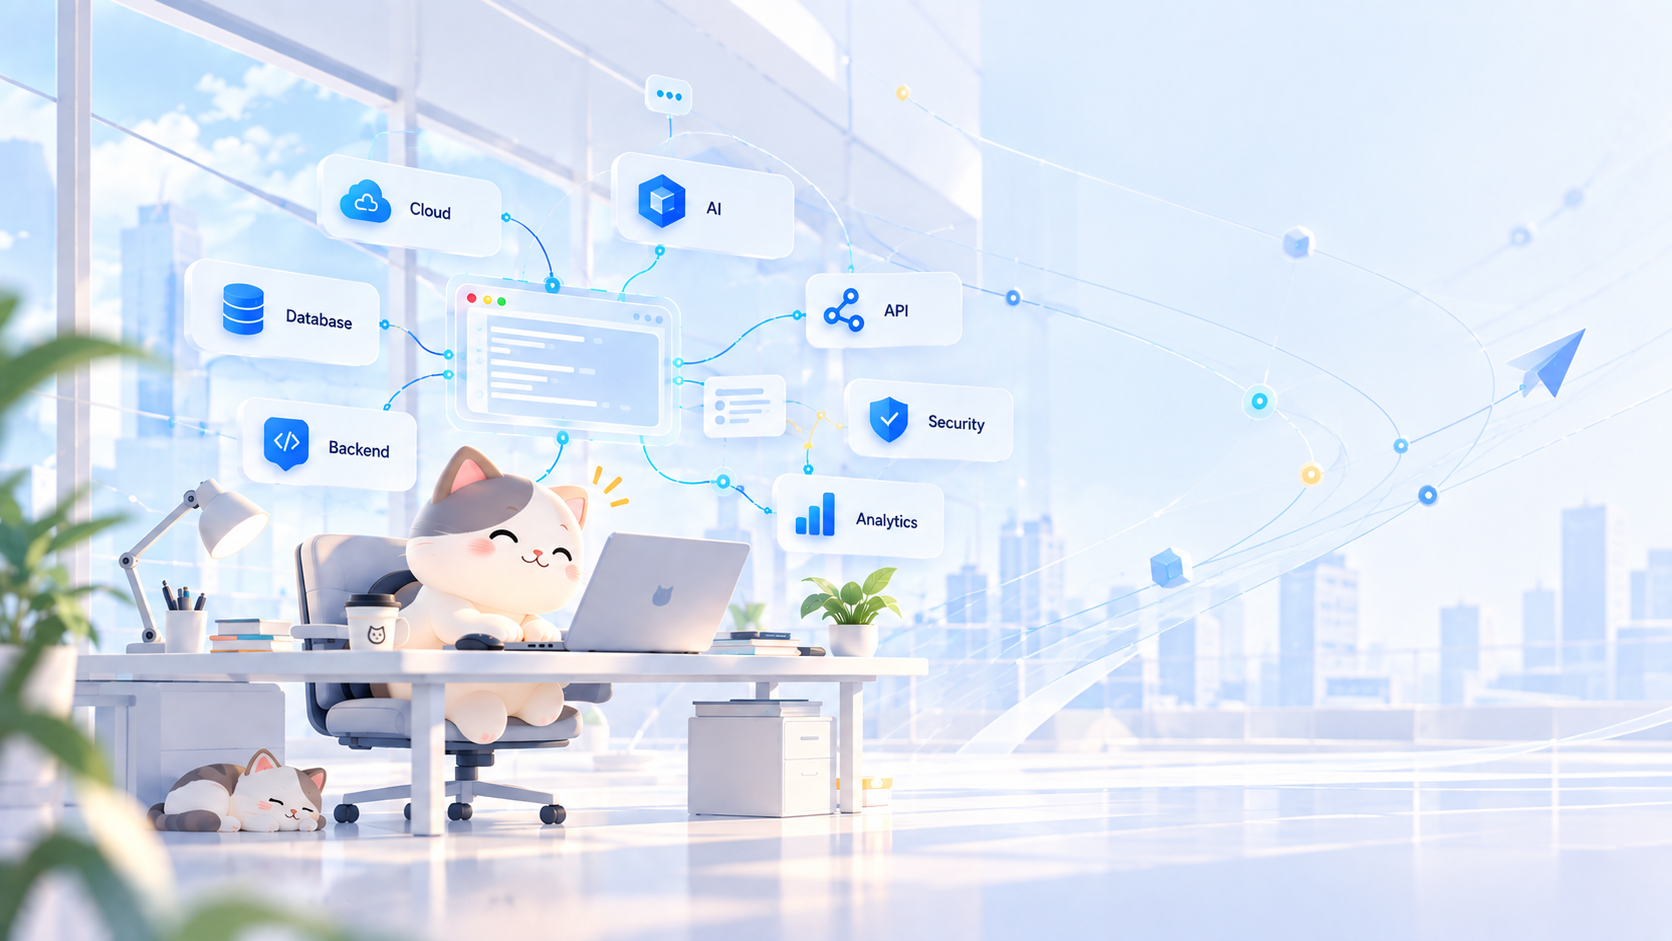
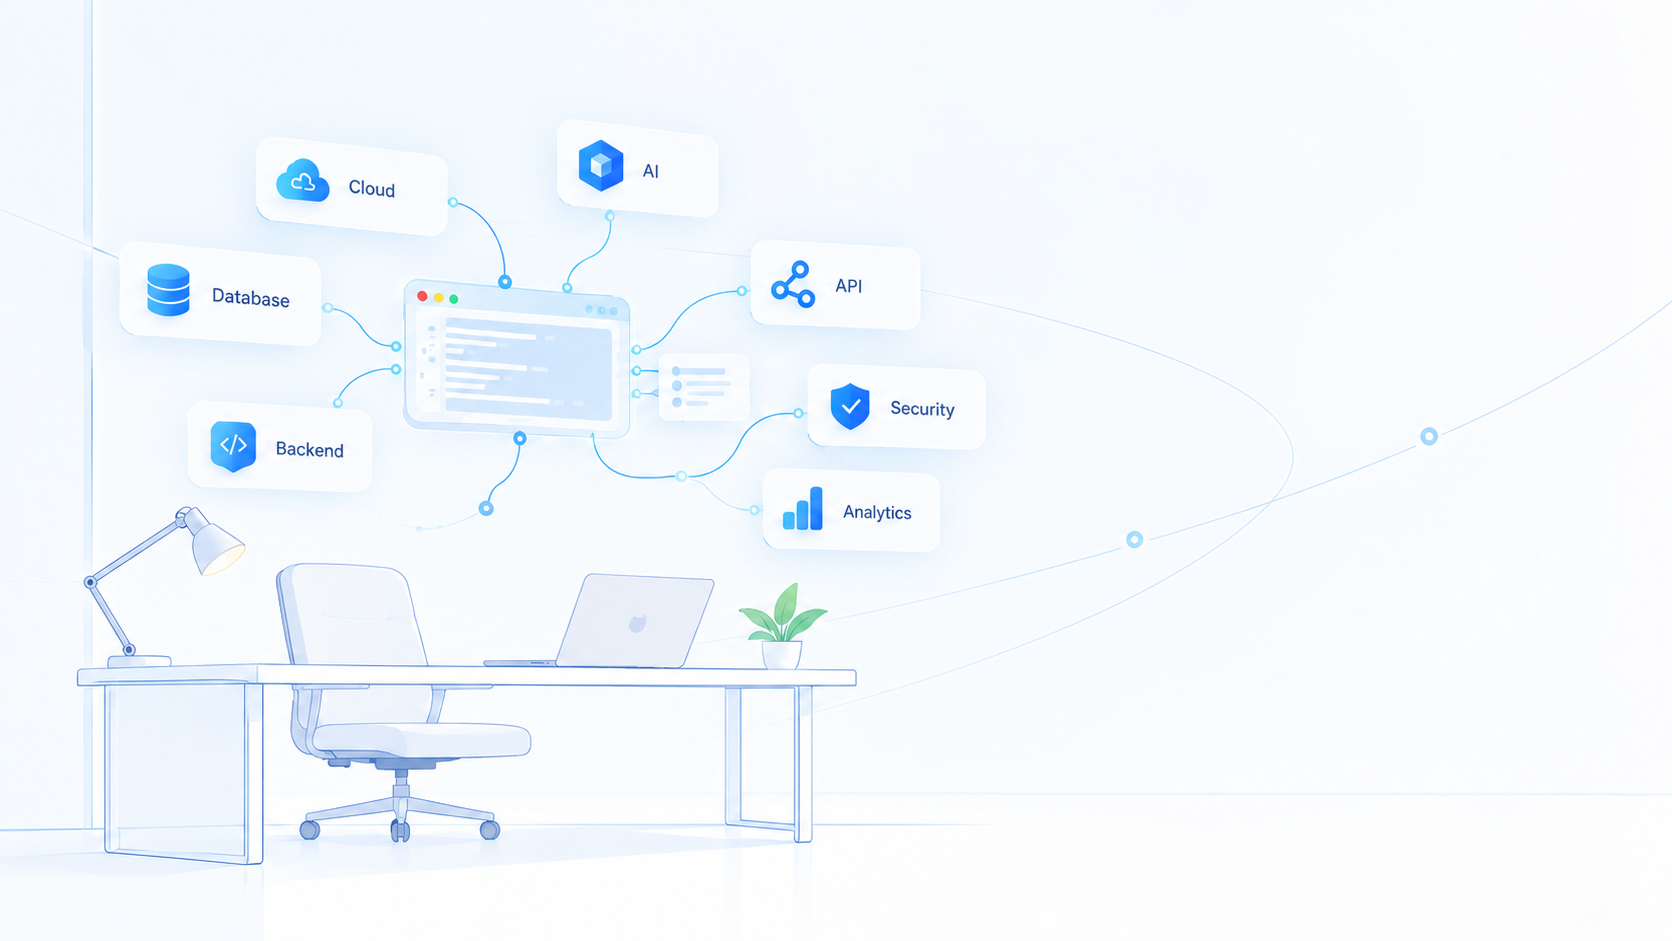
feat(登录页): 新增动态 SaaS 背景层
将登录页静态背景图替换为固定的 AnimatedSaaSBackground 组件层，
页面内容以相对定位叠加其上。同步引入 framer-motion 依赖，
并在 vitest setup 中兜底 window.matchMedia 以满足 antd 与
framer-motion 的 prefers-reduced-motion 读取需求。

diff --git a/bls-admin/src/pages/user/login/index.tsx b/bls-admin/src/pages/user/login/index.tsx
@@ -22,6 +22,7 @@ import React, { startTransition, useCallback, useRef, useState } from 'react';
 import { Footer } from '@/components';
 import AltchaCaptcha from '@/components/AltchaCaptcha';
 import TianaiCaptcha from '@/components/TianaiCaptcha';
+import AnimatedSaaSBackground from './AnimatedSaaSBackground';
 import { useLoginCaptcha } from '@/hooks/useLoginCaptcha';
 import { login } from '@/services/ant-design-pro/api';
 import { CAPTCHA_ERROR_CODES } from '@/services/auth/captcha';
@@ -56,11 +57,9 @@ const useStyles = createStyles(({ token, isDarkMode }) => {
       flexDirection: 'column',
       minHeight: '100vh',
       overflow: 'auto',
-      // 全屏背景图：public/login-bg.png → 构建后位于站点根路径，用绝对路径引用
-      backgroundImage: 'url(/login-bg.png)',
-      backgroundSize: 'cover',
-      backgroundPosition: 'center',
-      backgroundRepeat: 'no-repeat',
+      // 背景交给固定的 <AnimatedSaaSBackground /> 层；页面内容整体抬到它上面
+      position: 'relative',
+      zIndex: 1,
     },
     /** 登录区：把登录框推到右侧居中；窄屏回落到居中、内边距收紧 */
     loginArea: {
@@ -268,6 +267,8 @@ const Login: React.FC = () => {
         </title>
       </Helmet>
       <Lang />
+      {/* 背景：固定定位的底层静态插画 */}
+      <AnimatedSaaSBackground />
       <div className={styles.loginArea}>
         <div className={styles.panel}>
         <LoginForm

diff --git a/bls-admin/vitest.setup.ts b/bls-admin/vitest.setup.ts
@@ -4,11 +4,33 @@
  * - 注册 @testing-library/jest-dom 断言（toBeInTheDocument / toBeDisabled …）
  * - 每个测试后自动清理 DOM（@testing-library/react 会在 globals 可用时自动 cleanup，
  *   这里再显式兜底一次，避免多个测试文件混跑时残留）
+ * - 兜底 `window.matchMedia`：jsdom **不实现**它，而 antd 与 framer-motion 都会读取
+ *   （登录页动态背景 `AnimatedSaaSBackground` 的 `useReducedMotion` 就依赖它）。
+ *   这里让 `prefers-reduced-motion` 恒为 `reduce` ⇒ 测试里不跑无限动画，
+ *   既快又不会让 jsdom 一直忙在 requestAnimationFrame 上。
  */
 import '@testing-library/jest-dom/vitest';
 import { cleanup } from '@testing-library/react';
-import { afterEach } from 'vitest';
+import { afterEach, vi } from 'vitest';
 
 afterEach(() => {
   cleanup();
 });
+
+if (!window.matchMedia) {
+  Object.defineProperty(window, 'matchMedia', {
+    writable: true,
+    configurable: true,
+    value: vi.fn().mockImplementation((query: string) => ({
+      // 只让「减少动效」为真，其它（断点等）保持 false，避免影响 antd 的响应式判断
+      matches: /prefers-reduced-motion/.test(query),
+      media: query,
+      onchange: null,
+      addListener: vi.fn(),
+      removeListener: vi.fn(),
+      addEventListener: vi.fn(),
+      removeEventListener: vi.fn(),
+      dispatchEvent: vi.fn(),
+    })),
+  });
+}

diff --git a/bls-admin/src/pages/user/login/AnimatedSaaSBackground.tsx b/bls-admin/src/pages/user/login/AnimatedSaaSBackground.tsx
@@ -1,0 +1,21 @@
+/**
+ * 登录页背景：**一张静态插画**（`public/login-bg.png`，真实尺寸 1672×941，勿改）。
+ *
+ * 演进记录（2026-09-28 收敛到此版本）：
+ *   1. 最早是「动态 SaaS 背景」：鼠标视差 / SVG 数据流 / 发光节点 / 光点流动 / 呼吸光 / 扫描光；
+ *   2. 之后做过 v2（图片放进 SVG 共用坐标系）与 v3（左侧「产品能力地图」：
+ *      React 节点卡片 + hover 裂开 + 展开面板 + 连线高亮，文件 TechNode.tsx / TechNode.css / techNodes.tsx）；
+ *   3. **v3 及全部额外动画/卡片已按要求整体删除**，只保留插画本体（猫 / 桌椅 / 办公室 / 线路）。
+ *
+ * 说明：组件名沿用 `AnimatedSaaSBackground` 是为了不动调用方，它现在**不含任何动画**；
+ *       如需改名（如 `LoginBackground`）与文件名一起改即可。
+ */
+import './AnimatedSaaSBackground.css';
+
+export default function AnimatedSaaSBackground() {
+  return (
+    <div className="bls-login-background">
+      <img className="bls-login-background__image" src="/login-bg.png" alt="" draggable={false} />
+    </div>
+  );
+}

diff --git a/bls-admin/src/pages/user/login/AnimatedSaaSBackground.css b/bls-admin/src/pages/user/login/AnimatedSaaSBackground.css
@@ -1,0 +1,29 @@
+/**
+ * 登录页背景（静态插画层）。
+ *
+ * 固定铺满视口、置于页面内容之下（页面内容 `z-index: 1`，见 pages/user/login/index.tsx）。
+ * 图片用 `object-fit: cover`：等比铺满并居中裁切，窗口比例变化不拉伸、不变形。
+ */
+
+.bls-login-background {
+  position: fixed;
+  inset: 0;
+  z-index: 0;
+
+  overflow: hidden;
+
+  background: #f7fbff;
+}
+
+.bls-login-background__image {
+  width: 100%;
+  height: 100%;
+
+  display: block;
+
+  object-fit: cover;
+  object-position: center;
+
+  user-select: none;
+  pointer-events: none;
+}

diff --git a/.codebuddy/memory/2026-09-24.md b/.codebuddy/memory/2026-09-24.md
@@ -451,6 +451,103 @@ b) `/etc/buildkit/buildkitd.toml` 配 `[registry."docker.io"] mirrors=[...]` +
   修法：`ls -la` 确认是目录后 `rmdir`（或 `rm -rf`）掉，再把真正的文件传/写进去，
   最后 `ls -l` 确认是普通文件（有字节数）再 `up`。
 
+**登录页 v3：左侧「产品能力地图」——React DOM 节点卡片 + 裂开/展开交互**（2026-09-25 18:30）
+用户要求把左侧做成**可探索的产品介绍区**（hover 节点 → 卡片裂开 → 展开 BLS-KOX 能力介绍），
+并明确「不要继续拿 PNG 里画死的卡片做动画」。
+- 新增文件（都在 `bls-admin/src/pages/user/login/`）：
+  `TechNode.tsx` + `TechNode.css`（hover 裂开/展开面板/3D 微倾，**点击锁定 + 点空白关闭**）、
+  `techNodes.tsx`（7 个节点数据）。
+- **`lucide-react` 本项目没装** ⇒ 图标改用 `@ant-design/icons`
+  （CloudOutlined / DatabaseOutlined / DeploymentUnitOutlined / RobotOutlined / ApiOutlined /
+  SafetyCertificateOutlined / LineChartOutlined），**不为它新增依赖**。
+- `AnimatedSaaSBackground.tsx/.css` 重写为 **v3 架构（最终形态）**：
+  `.bls-login-background__stage` 用
+  `width: max(100%, 100vh*1672/941); height: max(100%, 100vw*941/1672)` **复刻 cover 映射**
+  ⇒ 舞台宽高比恒等于图片 ⇒ **舞台内百分比坐标 == 图片像素坐标**，图片 / SVG 连线 / React 节点
+  三者永远同一坐标系（这是前两版所有错位问题的统一解法）。
+  连线用 `flow-line`（平时 opacity .28）+ `flow-line--active`（激活时变亮）✓，光点仍沿线流动。
+- `TechNode` 的展开态由父组件控制（`active` / `pinned` / `onHoverChange` / `onTogglePin`），
+  这样才能实现「点击空白关闭」；登录页 `container` / `loginArea` 设 `pointer-events: none`、
+  `panel` / `lang` / `Footer` 设 `auto` —— 空白点击穿透到背景层。
+- ⚠ **"把背景里烘焙的卡片去掉"没能干净做到**：试过用大半径模糊按 7 个矩形擦除 ⇒ 卡片连成一片雾、
+  **把插画里的连线也抹掉了**（用户明确要保留线路）⇒ 已放弃并删除该产物。
+  改为实测插画卡片尺寸 **280×84、中心恰好在图标上** → React 卡片用同尺寸**完整盖住**原卡片
+  （用 Pillow 预览逐张核对 ✓），并把卡片底提到 ~0.97 不透明，避免原图标/文字透出（"两张卡"感）。
+  ⇒ 真正干净的路线是**让插画重出一张不含卡片、只保留猫/桌椅/线路的底图**（用户也认同），
+  拿到后只需换 `src` + 微调坐标。
+- 校验：4 个文件 `read_lints` 0 报错；Pillow 预览 `preview-align.png` 核对覆盖与连线；
+  ⚠ vitest 本机仍被吞输出/有僵尸 node 进程，未跑测试（登录页测试用 testid，不依赖该层 DOM）。
+
+**动态背景 v2：图片放进 SVG、共用坐标系、不再重画线（按用户方案重写）**（2026-09-25 17:00）
+用户给出彻底改版方案并采纳：**图片作为 `<image>` 放进 SVG 内部**（图片与动画共用同一坐标系）⇒
+从根本上消灭「CSS `background-size: cover` vs SVG `viewBox`+`slice`」两套缩放算法导致的错位；
+同时**删除鼠标视差 / 漂浮 / 扫描光 / 大面积呼吸光**，不再重画蓝色连接线，只让小光点沿原图已有的线跑
+（`animateMotion` + `<mpath>`，轨道 path `stroke="transparent"`）+ 原节点轻微呼吸。
+- 落地：`AnimatedSaaSBackground.tsx/.css` 整体替换（`flowPaths` 8 条、`pulseNodes` 11 个）。
+- **关键适配（必须记住）**：背景图真实尺寸是 **1672×941**，不是稿子里的 1648×960 ⇒
+  `viewBox` 与 `<image>` 宽高都按真实尺寸写（否则 `preserveAspectRatio="none"` 会把图纵向拉伸 ~3.4%
+  且轨迹对不上）。代码里抽成 `IMAGE_W/IMAGE_H` 常量并备注"换图必须重新量坐标"。
+- 组件仍以 `position: fixed` 作为底层；页面内容用兄弟节点叠加（登录页 `container` 已 `z-index: 1`）。
+- ⚠ v1 的 `.login-safe-area`（右侧给玻璃登录框的渐隐）随旧 CSS 一起被删除 ⇒ 玻璃面板现在直接压在
+  插画上；若读不清需要重新加一条右侧渐隐（已向用户说明）。
+- 用 Pillow 预览核对（`tmp-preview.py` 支持解析多段 `C` 命令 → `preview-align.png`）：用户给的 8 条
+  轨迹**大致落在插画的蓝线上**，但每段只有 ~50-80px（例：cloud 段 498→546）⇒ 光点只会在图标附近闪一下，
+  不像其草图那样从图标流到屏幕；两条路线（延长到整条线 / 保持局部闪烁）已交给用户选。
+
+**再修：HTML 与 SVG 的 transform-origin 不同导致"线还是没对齐"**（2026-09-25 16:30）
+用户回"还是不对吧"。复盘发现我上一轮加的 `scale: 1.02` 是**新的错位源**：
+- HTML 元素（`.bls-background__image`）的 `transform-origin` 默认 **50% 50%**；
+- **SVG 元素（`<motion.svg>`）的 `transform-origin` 默认是 `0 0`（左上角）**；
+⇒ 两层用**同一个** `scale` 也会因基点不同而错开（1.02 ≈ 最多 33px），线就脱离图标。
+原稿其实也有同类问题（`scale: 1.025` 只加在底图、SVG 没加）。
+修法：**两层都不要加 scale**（坐标已按图片原始像素对齐，任何额外缩放都会破坏对齐），
+视差只保留 x/y；极端情况下露的 1-2px 边由页面浅色渐变兜住。
+⇒ 由此得到一个**通用结论**：给「图片 + 覆盖层（SVG）」做精确对齐时，覆盖层绝不能用与图片
+不同基点的 transform；要缩放就两层同基点（或干脆都不缩放）。
+验证方式仍是 Pillow 预览图（`preview-align.png`，用原始坐标绘制 ⇒ 与去掉 transform 后的
+浏览器渲染一致，可当"预告图"给用户核对）。
+
+**动态背景"线没画对"修复：viewBox 尺寸 + 按图量真实坐标**（2026-09-25 16:00）
+用户反馈"线没画对 没有和图片的保持一致"。查出**两个根因**：
+- ① **viewBox 与图片宽高比不一致**：稿子写 `viewBox="0 0 1648 960"`，而
+  `public/login-bg.png` 实际是 **1672×941** ⇒ `preserveAspectRatio="slice"` 的裁切量
+  与 CSS `background-size: cover` 不同 ⇒ **任何窗口尺寸都错位**。
+  已改为按图片真实尺寸：`const IMAGE_W = 1672; const IMAGE_H = 941; viewBox={`0 0 ${IMAGE_W} ${IMAGE_H}`}`。
+  **结论（可复用）**：只要 viewBox == 图片尺寸/宽高比，`slice` 与 `cover` + 居中就是**同一套映射**，
+  对齐在任意窗口下都成立。
+- ② **坐标是估的**：改为**照图量**。方法：用 Pillow 把 100px 网格画到原图上 →
+  用 `read_file` 看图 → 按格子读图标中心。实测坐标（图像像素）：
+  Cloud(378,203) AI(668,205) Database(247,326) API(859,326) Backend(288,460)
+  Security(903,437) Analytics(829,539)，汇合点取笔记本屏幕中心 (620,425)。
+  连线从图标旁 ~35px 处出发（避免压住图标），右侧两条延伸到图里的纸飞机方向 (1580,378)/(1610,434)。
+- ③ 另一处隐蔽错位：`.bls-background__image` 原来是 `inset: -2%` + `scale: 1.025`，
+  而 SVG 没有同样的变换 ⇒ 底图相对线条偏移。已统一：`inset: 0` + **两层都用 `scale: 1.02`**
+  （底图与 `<motion.svg>` 同一 scale，防视差露边同时保持对齐）。
+- **验证手法（不用浏览器，值得复用）**：写一个临时 `tmp-preview.py`，用 Pillow 解析路径字符串、
+  采样三次贝塞尔画到原图上，再 `read_file` 看预览 —— 一眼就能判断线是否接在图标上；
+  产出 `preview-align.png`（用户也可自己打开核对）。临时的 `grid-*.png` / `preview-*.png` / `tmp-*.py`
+  已加入 `.gitignore`。
+
+**登录页动态背景（framer-motion + SVG 数据流）接入**（2026-09-25 15:10）
+用户给了一版 `AnimatedSaaSBackground`（静态底图 + SVG 网络/发光节点/视差/扫描光/呼吸动画），要求接到 BLS-KOX 登录页底层、登录表单继续盖在右侧。
+- 落地文件：`bls-admin/src/pages/user/login/AnimatedSaaSBackground.tsx`（9447B）+
+  `AnimatedSaaSBackground.css`（4659B）；登录页 `index.tsx` 引入并按**固定底层**渲染
+  `<AnimatedSaaSBackground />`，`styles.container` 去掉旧的 `backgroundImage` 改
+  `position:relative; z-index:1`。
+- **两处必要适配**（已告知用户）：
+  ① 底图**复用仓库已有的 `public/login-bg.png`**（就是同一张图），CSS 里写 `url('/login-bg.png')`，
+     没有新建 `/public/images/bls-kox-login-bg.png`（省掉重复的 1.4MB 资源）；
+  ② `.bls-background` 改为 **`position: fixed; inset: 0`**（铺满视口的独立底层），页面内容
+     （玻璃登录框 / Footer / 语言切换）作为**兄弟节点**叠在其上 ⇒ 不动原有登录框定位与滚动，
+     `children` 插槽保留但本项目不传。
+- `framer-motion@^13.4.3` **本来就在依赖里**（无需 `npm i`）；lint 0 报错。
+- 顺手补了测试环境：`bls-admin/vitest.setup.ts` 增加 `window.matchMedia` stub
+  （jsdom 不实现；只让 `prefers-reduced-motion` 为 true ⇒ 测试里不跑无限动画，更快更稳）；
+  登录页单测 `src/pages/user/login/index.test.tsx` **1 file passed**。
+- ⚠ SVG `viewBox="0 0 1648 960"` 的坐标是按**这张图**对齐的，换背景图需重对坐标。
+- ⚠ 本机当时有 **31 个 node 进程**（多次 vitest 尝试留下的），会让测试变慢；
+  按 MEMORY.md 约定**不要按进程名杀 node**（会连 dev server 一起杀）。
+
 **约定：部署脚本不进项目**（2026-09-25 01:25）
 用户明确"部署脚本就不用同步到项目了"。
 - 已删除本地临时文件：`tmp-deploy.py`、`dist-upload.tgz`、`build-admin.log`、`ssh.log`、

diff --git a/.codebuddy/memory/MEMORY.md b/.codebuddy/memory/MEMORY.md
@@ -210,6 +210,27 @@ a separate Java service proxied by Koa). ALTCHA's `display="standard"` widget is
   constraints**; the platform tenant id is `'000000'`; business responses are `{code, message, data,
   total}` with `pageNum` / `pageSize` (max 100).
 
+- **Ad-hoc deploy scripts stay local — never add them to the repo** (user, 2026-09-25). The helper used to
+  push a release (`tmp-deploy.py`), the upload tarball (`dist-upload.tgz`) and build/test logs
+  (`build-*.log`, `vt-*.log`, `tsc-*.log`, `ssh.log`) are session-scoped: write → use → delete. `.gitignore`
+  covers those names now. The deployment shape that actually works from this Windows box:
+  1. build locally (`cd bls-admin && npm run build`, or `tsc` for `bls-server`);
+  2. upload artifacts — **Windows OpenSSH `ssh`/`scp` cannot take a password non-interactively**, so use
+     **paramiko** (`python -m pip install --user paramiko`): a ~30-line script with `--put local=remote`
+     (SFTP) and `--cmd` (exec), reading the password from `DEPLOY_PW`;
+  3. on the server: `tar -xzf <pkg> -C bls-admin/` for the frontend (never delete the `dist` **directory**
+     itself — it is a bind mount), then `docker compose --env-file .env.docker -f docker-compose.yml
+     -f docker-compose.server-only.yml up -d --no-deps --build <service>`;
+  4. **tag the current image first** (`docker tag bls-kox-bls-server:latest …:pre-<change>`) for any
+     auth/password-path change — rollback = re-tag `latest` + `up -d --no-deps`.
+  Hard-won checks: the only reliable "frontend really deployed" proof is
+  `grep -rl <new-literal> bls-admin/dist` (e.g. `login-bg`) — `index.html` mtime alone is weak. The IDE
+  **`write_to_file` intermittently writes a 0-byte file** (bit us twice with `tmp-deploy.py`; same class as
+  the `.sql` trap above) ⇒ check the size before relying on a generated script, and re-read files on the
+  server instead of trusting `--put` output. `npm run build` (utoopack) also fails spuriously
+  (`Unable to deserializate response from webpack loaders transform … missing field source` on an
+  untouched `.less`) — **just run it again** before investigating.
+
 ## IV. Documentation & memory system (most important convention)
 
 - **`bls-memory/` is the single entry point for page-level memory**; repo-root `AGENTS.md` points at it.
@@ -278,6 +299,12 @@ a separate Java service proxied by Koa). ALTCHA's `display="standard"` widget is
   click and per-render O(n²) work (menu trees can hold hundreds of nodes).
 - Do not launch `agent-browser`/an automated browser here to self-verify UI changes; the user cancels it.
   State the change instead and let them look.
+- **Aligning an overlay (SVG) with a background image**: match `viewBox` to the image's **real pixel
+  size** (else `preserveAspectRatio="slice"` crops differently from CSS `background-size: cover`), and
+  never put a `scale` on only one of the two layers — **`transform-origin` differs**: HTML elements
+  default to `50% 50%`, **SVG elements to `0 0`**, so the same `scale` shifts them apart (1.02 ≈ 33px).
+  Keep both untransformed (parallax via `x`/`y` only). Verify without a browser by sampling the Bezier
+  paths with Pillow onto the image (`tmp-preview.py` → `preview-align.png`, git-ignored).
 - Long text cells that must be copied (`pages/system/log/sql-audit.tsx` `sqlText`, settled 2026-09-24):
   clicking the text copies it (`navigator.clipboard` when `window.isSecureContext`, else hidden
   `<textarea>` + `execCommand('copy')`) and shows `message.success`; keep a `CopyOutlined` icon button for

diff --git a/.codebuddy/memory/2026-09-28.md b/.codebuddy/memory/2026-09-28.md
@@ -1,0 +1,35 @@
+# 2026-09-28
+
+**登录页背景：暂时关掉 v3 交互层，只看插画本体**（2026-09-28）
+用户要求"去掉这些额外的动画和卡片，我看看本身的模样"。
+- 改 `bls-admin/src/pages/user/login/AnimatedSaaSBackground.tsx`：新增总开关常量
+  **`SHOW_TECH_LAYER = false`**（文件顶部，含注释说明如何恢复），并在组件内计算
+  `techLayerOn = SHOW_TECH_LAYER || URL 带 ?tech=1`（正则 `/[?&]tech=1(?:&|$)/`）。
+  JSX 里用 `{techLayerOn && ( <svg …/> )}` 与 `{techLayerOn && techNodes.map(…)}` 包住
+  **SVG 连线 + 光点 + TechNode 卡片** ⇒ 关闭时这些**根本不渲染**（不是 CSS 隐藏），
+  `animateMotion` / framer-motion 循环动画随之停止。图片本体与上一轮的
+  「等比舞台」坐标系保留（`public/login-bg.png`，1672×941，永不改）。
+- 恢复方式二选一：① 把 `SHOW_TECH_LAYER` 改 true；② dev 下访问 `…?tech=1`（不改代码）。
+- 校验：`read_lints` 0 报错；JSX 结构已复核（`</svg>)}`、`{techLayerOn && techNodes.map(...)`）。
+- 未动：登录页 `pointer-events` 分层（空白穿透）保持不变，关掉交互层后无副作用。
+- 遗留：`TechNode.tsx/.css`、`techNodes.tsx` 仍在仓库中（开关打开即用）；
+  插画里烘焙的 7 张卡片未从图里去除（擦除会把连线一起抹掉，已否决），
+  目前靠 React 卡片 280×84 完整覆盖；彻底方案 = 让插画重出无卡片底图。
+
+**最终定稿：v3 交互层整体删除，背景只留静态插画**（2026-09-28，用户："都删掉吧 这样挺好"）
+- **删除文件**：`pages/user/login/` 下 `TechNode.tsx`、`TechNode.css`、`techNodes.tsx`
+  （删前已 grep 确认仅被背景组件引用，登录页单测未引用、`__snapshots__` 为空、无 toMatchSnapshot）。
+- **`AnimatedSaaSBackground.tsx` 收敛为静态**：只剩 `<div.bls-login-background><img src="/login-bg.png"/></div>`，
+  无 framer-motion / 无 SVG / 无开关常量；文件头保留「演进记录」注释（避免后来人以为是 v1 那份带视差的版本）。
+  组件名沿用旧名以免改调用方（如需改 `LoginBackground`，文件名+import 一起改）。
+- **`AnimatedSaaSBackground.css` 收敛**：`.bls-login-background`（fixed/inset 0/z-index 0）+ `__image`
+  （`object-fit: cover`）—— 与之前的「等比舞台 + max() 计算」视觉等价但更简单。
+- **登录页 `index.tsx` 回退上一轮为交互层加的指针分层**：去掉 `container`/`loginArea` 的
+  `pointerEvents:'none'`、`panel`/`lang` 的 `pointerEvents:'auto'`、Footer 外层包裹 div；
+  注释「动态背景：…视差/SVG 数据流/发光节点/扫描光」→「背景：固定定位的底层静态插画」。
+  ⇒ 登录页现在与「只加一张固定背景图」的原始改动等价，**没有多余 DOM/样式**。
+- 清理临时产物：`tmp-measure.py`、`tmp-preview.py`、`tmp-clean.py`、`preview-align.png`、`preview-cards.png`。
+- 校验：`read_lints` 0 报错；grep 确认 src 内已无 `TechNode|techNodes` 残留（仅剩注释里的历史说明）；
+  `framer-motion` 仍被 `components/TianaiCaptcha` 使用 ⇒ **依赖不能从 package.json 删**。
+- 结果状态：`public/login-bg.png`（1672×941，仍未改）**原图里烘焙的 7 张卡片依旧存在**，
+  这是有意保留的「原图本体」；若将来要做卡片，先换无卡片底图或再评估。
